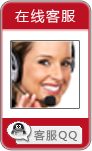
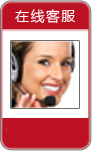
修改26号PPT bug信息

Changed region(s): [[0.0652, 0.7947, 0.913, 0.9801]]

diff --git a/Tpl/default/Index/index.html b/Tpl/default/Index/index.html
@@ -30,6 +30,12 @@
 				$(this).attr("class", className);
 			});
 			$(".menu_index").removeClass("menu_index").addClass("menu_index1");
+			$(".promotion_content .item .img").click(function(){
+				_href = $(this).attr("href");
+				if(_href){
+					location.href = _href;
+				}
+			});
 		});	
 	</script>	
 </head>
@@ -145,10 +151,6 @@
 					<div class="search_input"><input type="text" name="word" id="word"/></div>
 					<div class="search_btn"><input type="button" value=" 搜     索 " id="searchInformationColumn"/></div>
 				</div>
-				<div class="search_hot">
-					<a href="#" class="gray">3M</a> <a href="#" class="gray">刹车片</a> <a href="#" class="gray">机油</a> <a href="#" class="gray">导航仪</a>
-					 <a href="#" class="gray">WINX</a>
-				</div>
 			</div>
 			</form>
 			<div class="clear"></div>
@@ -164,12 +166,12 @@
 				</div>
 				<div class="category_news">资讯</div>
 				<div class="category_news_content">
-					<a href="#" class="black">汽配资讯</a>
-					<a href="#" class="black">产品报告</a>
-					<a href="#" class="black">厂商动态</a>
-					<a href="#" class="black">经销动态</a>
-					<a href="#" class="black">一线维修</a>
-					<a href="#" class="black">汽配人物</a>
+					<a href="/InformationColumn/supListInformationColumn?flag=1" class="black">厂商动态</a>
+					<a href="/InformationColumn/supListInformationColumn?flag=2" class="black">经销动态</a>
+					<a href="/InformationColumn/supListInformationColumn?flag=3" class="black">汽配热点</a>
+					<a href="/InformationColumn/supListInformationColumn?flag=4" class="black">汽配人物</a>
+					<a href="/InformationColumn/supListInformationColumn?flag=5" class="black">维修资源</a>
+					<a href="/InformationColumn/supListInformationColumn?flag=6" class="black">一线维修</a>
 				</div>
 			</div>
 			<div class="clear"></div>
@@ -187,7 +189,7 @@
 							<div class="row">
 								<volist name="child" id="vo">
 								<div class="item">
-									<div class="img align_center"><div style="width:200px;margin-left:7px;height:148px;overflow:hidden;background:url(__PUBLIC__/Uploads/{$vo.index_pic});">
+									<div class="img align_center" style="cursor:pointer" href="/Activity/show?id={$vo.id}"><div style="width:200px;margin-left:7px;height:148px;overflow:hidden;background:url(__PUBLIC__/Uploads/{$vo.index_pic});">
 										<if condition="!empty($vo['index_change_pic'])">
 										<img src="__PUBLIC__/Uploads/{$vo.index_change_pic}" style="margin-left:-600px" />
 										</if>
@@ -229,12 +231,6 @@
 							</div>
 						</div>
 						<div class="right_bottom"></div>
-					</div>
-					<div class="clear"></div>
-					<div class="ads">
-						<div><img src="__PUBLIC__/images/ad1.jpg" /></div>
-						<div><img src="__PUBLIC__/images/ad2.jpg" /></div>
-						<div><img src="__PUBLIC__/images/ad3.jpg" /></div>
 					</div>
 					<div class="clear"></div>
 				</div>
@@ -330,11 +326,8 @@
 		<div class="clear"></div>
 	</div>
 	<include file="./Tpl/default/Public/index_bottom.html" />
-	<include file="./Tpl/default/Public/dialog.html" />  
-	<div class="kf">
-		<div><img src="__PUBLIC__/images/kf_top.png" /></div>
-		<div><a target="_blank" href="http://wpa.qq.com/msgrd?v=3&uin=2604517234&site=qq&menu=yes"><img src="__PUBLIC__/images/kf_bottom.png" border="0"/></a></div>
-	</div>
+	<include file="./Tpl/default/Public/dialog.html" />
+	<include file="./Tpl/default/Public/qq_dialog.html" />
     <script type="text/javascript" language="javascript">
         var speed = 40//速度数值越大速度越慢
         www_qpsh_com2.innerHTML = www_qpsh_com1.innerHTML

diff --git a/Tpl/default/InformationColumn/supInformationColumnDetail.html b/Tpl/default/InformationColumn/supInformationColumnDetail.html
@@ -33,9 +33,18 @@
             <div class="clear"></div>
 			<div class="layer1">
                 <div class="help_right">
-                    <div class="help_right_title"><a name="01" id="01"></a><span>当前位置</span>：行业资讯 &gt; {$result.column}</div>
+					<php>
+						$type["厂商动态"] = 1;
+						$type["经销动态"] = 2;
+						$type["汽配热点"] = 3;
+						$type["汽配人物"] = 4;
+						$type["维修资源库"] = 5;
+						$type["一线维修"] = 6;
+					</php>
+                    <div class="help_right_title"><a name="01" id="01"></a><span>当前位置</span>：<a href="/InformationColumn/supListInformationColumn">行业资讯</a> &gt; <a href="/InformationColumn/supListInformationColumn?flag=<php>echo $type[$result[column]]</php>">{$result.column}</a></div>
                     <div class="help_right_content">
 						<div class="help_right_content_title">{$result.title}</div>
+						<div class="hr"></div>
 						<div class="help_right_content_time"><php>echo date("Y年m月d日", strtotime($result["publish_time"]))</php></div>
                         {$result.content}
                     </div>
@@ -46,5 +55,6 @@
     </div>
 	<include file="./Tpl/default/Public/index_bottom.html" />
 	<include file="./Tpl/default/Public/dialog.html" />  
+	<include file="./Tpl/default/Public/qq_dialog.html" />
 </body>
 </html>

diff --git a/Tpl/default/Public/left.html b/Tpl/default/Public/left.html
@@ -13,34 +13,5 @@
      </div>
 	 <div class="jg"></div>
 
-	  <div class="side_nr_l">
-	 <div align="center">
-	 <table border="0" width="80%"  cellspacing="0" cellpadding="0">
-		<tr><td  height="40" align="center"><span class="z1">帮助中心</span></td></tr>
-		<tr>
-		  <td height="25" align="left" class="sj"><a href="#" class="le">什么是账户余额？</a></td>
-		</tr>
-		<tr>
-		  <td  height="25" align="left" class="sj"><a href="#" class="le">可以往账户里充值吗？</a></td>
-		</tr>		
-		<tr>
-		  <td  height="25" align="left" class="sj"><a href="#" class="le">那怎样才能充值？</a></td>
-		</tr>
-		<tr>
-		  <td  height="25" align="left" class="sj"><a href="#" class="le">如何获取优惠券？</a> </td>
-		</tr>
-		<tr>
-		  <td  height="25" align="left" class="sj"><a href="#" class="le">什么是已过期订单？</a> </td>
-		</tr>
-		<tr>
-		  <td  height="25" align="left" class="sj"><a href="#" class="le">什么是优惠券？</a> </td>
-		</tr>
-		<tr>
-		  <td  height="25" align="left" class="sj"><a href="#" class="le">如何使用优惠券？</a> </td>
-		</tr>
-	 </table>
-     </div>	 
-     </div>
-	<div class="jg"></div>
 	  </div>
    </div>

diff --git a/Public/css/userCenter.css b/Public/css/userCenter.css
@@ -60,7 +60,7 @@ a.ymn:active{	text-decoration: none;	color:#ffffff; font-weight: bold;}
 .side_nr{ margin-left: 40px; width:210px;}
 .side_nr_l{	border: 1px solid #d5d5d5;	background-image: url(../images/u_lbg.jpg);	background-repeat: repeat-x;	padding-top: 5px;	padding-bottom: 5px;}
 #main { float:right; width: 750px;  padding-bottom: 25px; }
-.main_nr{	margin-left: 25px; width:725px;}
+.main_nr{	margin-left: 25px; width:700px;}
 .dd { height:40px; font-size:20px; font-family:"微软雅黑";}
 .fl { height:32px; line-height:32px; background-color:#F3F3F3; font-size:12px;border-top-width: 1px;	border-bottom-width: 1px;border-top-style: solid; border-bottom-style: solid;border-top-color: #BEBEBE;	border-bottom-color: #BEBEBE;}
 .fl1 { font-size: 12px; color:#666666;margin-left: 10px;width:30px; line-height:22px; }

diff --git a/Tpl/default/Activity/show.html b/Tpl/default/Activity/show.html
@@ -172,6 +172,7 @@
 	<div class="clear"></div>
 	<include file="./Tpl/default/Public/index_bottom.html" />
 	<include file="./Tpl/default/Public/dialog.html" />  
+	<include file="./Tpl/default/Public/qq_dialog.html" />
 	<div id="dialog-comment" title="对此次活动评论" style="display:none">
 		<div style="margin-top:5px;padding-left:10px;">标题：<input type="text" style="width:500px;" name="title" id="title"/></div>
 		<div style="margin-top:5px;padding-left:10px;">内容：<textarea style="width:500px;" cols="30" rows="15" id="content" name="content"></textarea></div>

diff --git a/Tpl/default/Public/qq_dialog.html b/Tpl/default/Public/qq_dialog.html
@@ -1,0 +1,3 @@
+	<div class="kf">
+		<div style="text-align:center;margin-top:119px;"><a target="_blank" href="http://wpa.qq.com/msgrd?v=3&uin=2604517234&site=qq&menu=yes"><img border="0" src="http://wpa.qq.com/pa?p=2:2604517234:47" alt="点击这里给我发消息" title="点击这里给我发消息"></a></div>
+	</div>

diff --git a/Public/css/index.css b/Public/css/index.css
@@ -742,6 +742,7 @@ a:hover{
 	width:92px;
 	height:151px;
 	margin-left:500px;
+	background:url(../images/kf.png);
 }
 * html,* html body{background-image:url(about:blank);background-attachment:fixed}
 * html .kf{position:absolute;top:expression(eval(document.documentElement.scrollTop) + 200)}

diff --git a/Tpl/default/Reg/regMoreInfoTip.html b/Tpl/default/Reg/regMoreInfoTip.html
@@ -48,6 +48,7 @@
 			<div class="clear"></div>
 		</div>
 		<include file="./Tpl/default/Public/bottom.html" />  
+		<include file="./Tpl/default/Public/qq_dialog.html" />  
 	</div>
 	<script type="text/javascript">
 		var second = document.getElementById("second");

diff --git a/Public/css/informationColumn.css b/Public/css/informationColumn.css
@@ -322,6 +322,7 @@ h3 {
 	margin-right:auto;
 	font-weight:bold;
 	font-size:18px;
+	font-family:黑体;
 
 }
 .help_right_content_time
@@ -339,4 +340,8 @@ h3 {
 }
 .red {
 	color:#ce0000;
+}
+.hr{
+	border-bottom:1px solid gray;
+	margin:10px 0 10px 0;
 }

diff --git a/Tpl/default/InformationColumn/supListInformationColumn.html b/Tpl/default/InformationColumn/supListInformationColumn.html
@@ -104,5 +104,6 @@
 		</div>
 		<include file="./Tpl/default/Public/index_bottom.html" />  
 	<include file="./Tpl/default/Public/dialog.html" />  
+	<include file="./Tpl/default/Public/qq_dialog.html" />
 </body>
 </html>

diff --git a/Tpl/default/Help/index.html b/Tpl/default/Help/index.html
@@ -247,5 +247,6 @@
     </div>
 	<include file="./Tpl/default/Public/index_bottom.html" />
 	<include file="./Tpl/default/Public/dialog.html" />  
+	<include file="./Tpl/default/Public/qq_dialog.html" />
 </body>
 </html>

diff --git a/Tpl/default/Help/user.html b/Tpl/default/Help/user.html
@@ -186,5 +186,6 @@
     </div>
 	<include file="./Tpl/default/Public/index_bottom.html" />
 	<include file="./Tpl/default/Public/dialog.html" />  
+	<include file="./Tpl/default/Public/qq_dialog.html" />
 </body>
 </html>
